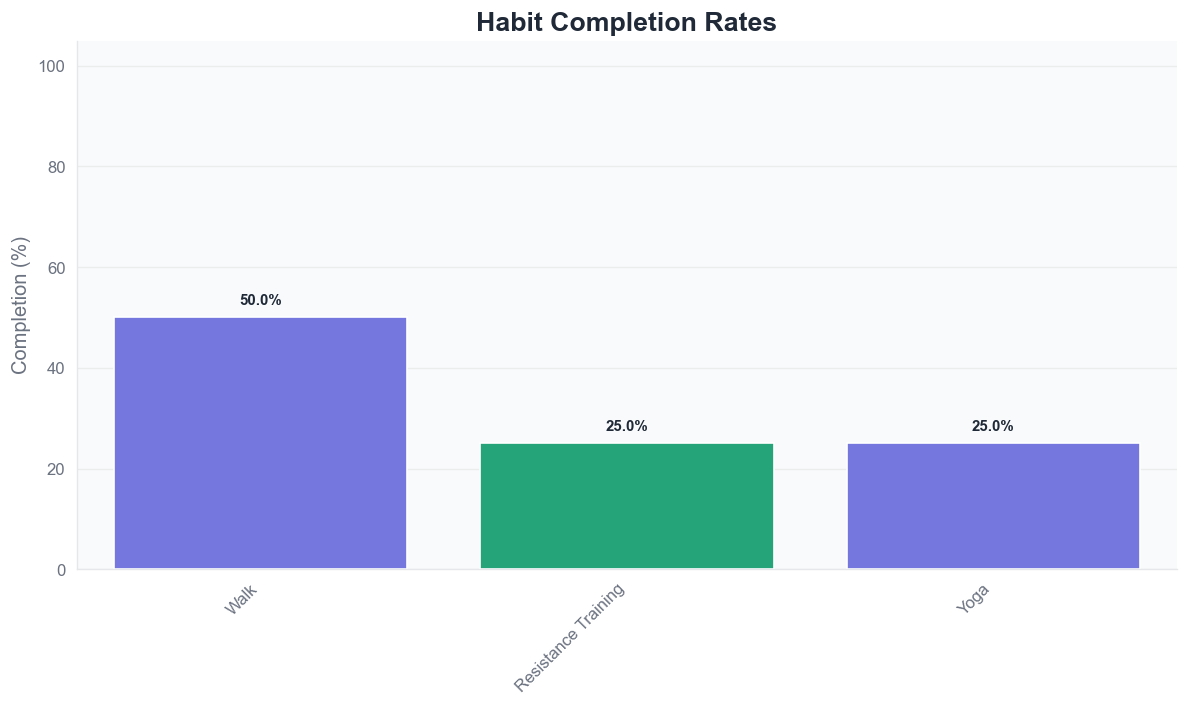
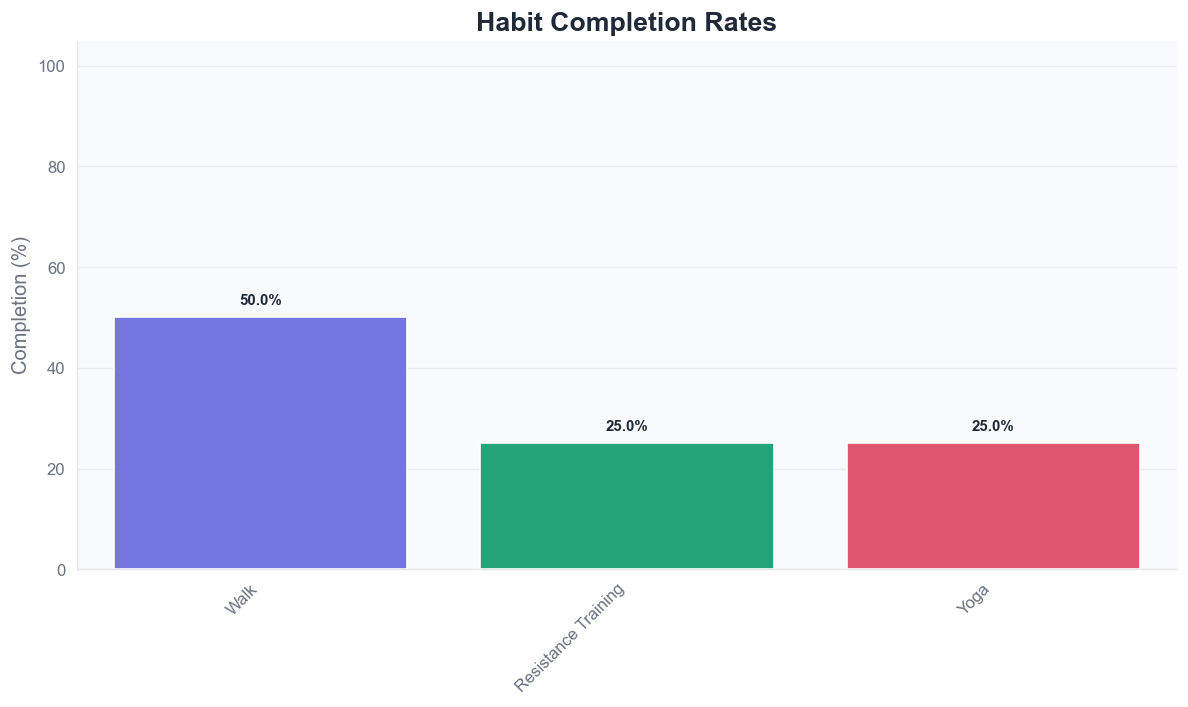
habit trends chart

Changed region(s): [[0.7163, 0.6223, 0.9655, 0.8091]]

diff --git a/templates/index.html b/templates/index.html
@@ -331,7 +331,7 @@
         {% if visual_files %}
             {% for visual in visual_files %}
             <div class="visual-container">
-                <h3 class="visual-title">{{ visual.split('.')[0].replace('_', ' ').title() }}</h3>
+                <h3 class="visual-title">{{ visual.split('_')[0:2]|join(' ')|title }}: All Time</h3>
                 <div class="chart-container">
                     <img src="{{ url_for('serve_visual', filename=visual) }}" alt="Habit Visualization">
                 </div>

diff --git a/src/analyzer.py b/src/analyzer.py
@@ -1,6 +1,8 @@
 import pandas as pd
 import matplotlib.pyplot as plt
 import seaborn as sns
+import numpy as np
+from matplotlib.dates import DateFormatter, WeekdayLocator
 
 def load_data(filepath):
     df = pd.read_csv(filepath)
@@ -32,14 +34,20 @@ def plot_completion_rates(df, save_path=None):
     # Set style and color palette to match our website design
     sns.set_style("whitegrid")
     
-    # Create a custom color palette that matches our UI
+    # Create a custom color palette that matches our UI - same as in plot_habit_trends
     primary_color = "#6366F1"  # Indigo/purple (matches --primary-color)
     secondary_color = "#10B981"  # Teal/green (matches --secondary-color)
+    tertiary_color = "#F43F5E"  # Rose/pink
     
-    # Create a gradient palette from our primary colors
-    # The number of colors should match the number of habits
-    n_habits = len(rates)
-    custom_palette = sns.color_palette([primary_color, secondary_color], n_colors=n_habits)
+    # Create a fixed color map to ensure consistency across charts
+    habit_colors = {
+        'Walk': primary_color,
+        'Resistance Training': secondary_color,
+        'Yoga': tertiary_color
+    }
+    
+    # Map each habit to its assigned color
+    custom_palette = [habit_colors.get(habit, primary_color) for habit in rates.keys()]
     
     plt.figure(figsize=(10, 6), facecolor='white')
     ax = plt.axes()
@@ -91,5 +99,131 @@ def plot_completion_rates(df, save_path=None):
     if save_path:
         plt.savefig(save_path, dpi=120, bbox_inches='tight', transparent=False)
         plt.close()  # Close the figure to avoid displaying it when running as a scheduled task
+    else:
+        plt.show()
+
+def plot_habit_trends(df, save_path=None):
+    """
+    Creates a line chart showing total habit completions over time.
+    
+    Parameters:
+    -----------
+    df : pandas.DataFrame
+        DataFrame containing the habit tracking data with Date column
+    save_path : str, optional
+        Path to save the visualization
+    """
+    # Make a copy to avoid modifying the original dataframe
+    df = df.copy()
+    
+    # Ensure Date is datetime and sort
+    df['Date'] = pd.to_datetime(df['Date'])
+    df = df.sort_values('Date')
+    
+    # Exclude the Notes column
+    habit_columns = [col for col in df.columns if col not in ['Date', 'Notes']]
+    
+    # Convert Yes/No to 1/0 for calculation
+    for habit in habit_columns:
+        df[f'{habit}_numeric'] = df[habit].map(lambda x: 1 if str(x).lower() == 'yes' else 0)
+    
+    # Calculate cumulative sums for each habit
+    for habit in habit_columns:
+        df[f'{habit}_cumsum'] = df[f'{habit}_numeric'].cumsum()
+    
+    # Modern styling that matches our UI
+    sns.set_style("whitegrid")
+    
+    # Create a custom color palette that matches our UI - same as in plot_completion_rates
+    primary_color = "#6366F1"  # Indigo/purple (matches --primary-color)
+    secondary_color = "#10B981"  # Teal/green (matches --secondary-color)
+    tertiary_color = "#F43F5E"  # Rose/pink
+    
+    # Create a fixed color map to ensure consistency across charts
+    habit_colors = {
+        'Walk': primary_color,
+        'Resistance Training': secondary_color,
+        'Yoga': tertiary_color
+    }
+    
+    # Map each habit to its assigned color - ensures consistent colors between charts
+    custom_palette = [habit_colors.get(habit, primary_color) for habit in habit_columns]
+    
+    # Set up the plot
+    plt.figure(figsize=(10, 6), facecolor='white')
+    ax = plt.axes()
+    ax.set_facecolor('#F9FAFB')  # Match background color (--bg-color)
+    
+    # Plot lines for each habit
+    for i, habit in enumerate(habit_columns):
+        color = custom_palette[i % len(custom_palette)]
+        
+        # Plot the cumulative sum line with styling
+        line = plt.plot(
+            df['Date'], 
+            df[f'{habit}_cumsum'],
+            marker='o',
+            markersize=6,
+            linewidth=3,
+            color=color,
+            label=habit
+        )[0]
+        
+        # Add drop shadow to line for depth
+        plt.plot(
+            df['Date'], 
+            df[f'{habit}_cumsum'],
+            linewidth=5,
+            color=color,
+            alpha=0.2  # Transparent for shadow effect
+        )
+        
+        # Add last value annotation
+        last_date = df['Date'].iloc[-1]
+        last_value = df[f'{habit}_cumsum'].iloc[-1]
+        plt.annotate(
+            f'{last_value}',
+            xy=(last_date, last_value),
+            xytext=(5, 0),
+            textcoords='offset points',
+            color='#1F2937',
+            fontweight='bold',
+            fontsize=10
+        )
+    
+    # Style the title and labels
+    plt.title("Cumulative Habit Completions", fontsize=16, fontweight='bold', color='#1F2937')
+    plt.ylabel("Total Completions", fontsize=12, color='#6B7280')
+    plt.xlabel("", fontsize=0)  # Remove x-axis label
+    
+    # Format the date on x-axis
+    date_format = DateFormatter('%b %d')  # Apr 22 format
+    ax.xaxis.set_major_formatter(date_format)
+    plt.xticks(rotation=30, ha='right', color='#6B7280')
+    
+    # Style the axes and grid
+    ax.spines['top'].set_visible(False)
+    ax.spines['right'].set_visible(False)
+    ax.spines['left'].set_color('#E5E7EB')
+    ax.spines['bottom'].set_color('#E5E7EB')
+    plt.grid(axis='y', alpha=0.3)
+    
+    # Add legend with custom styling
+    legend = plt.legend(
+        loc='upper left',
+        frameon=True,
+        fontsize=10
+    )
+    frame = legend.get_frame()
+    frame.set_facecolor('white')
+    frame.set_alpha(0.9)
+    frame.set_edgecolor('#E5E7EB')
+    
+    # Adjust layout
+    plt.tight_layout()
+    
+    if save_path:
+        plt.savefig(save_path, dpi=120, bbox_inches='tight', transparent=False)
+        plt.close()
     else:
         plt.show()

diff --git a/scripts/generate_dashboard.py b/scripts/generate_dashboard.py
@@ -12,7 +12,7 @@ import sys
 
 # Add the project root to the path so we can import from src
 sys.path.append(os.path.abspath(os.path.join(os.path.dirname(__file__), '..')))
-from src.analyzer import summarize_habits, plot_completion_rates
+from src.analyzer import summarize_habits, plot_completion_rates, plot_habit_trends
 
 # Create output directories if they don't exist
 output_dir = os.path.join(os.path.dirname(os.path.dirname(__file__)), 'output')
@@ -56,10 +56,15 @@ if not df.empty:
     for habit, rate in summary.items():
         print(f"{habit}: {rate}%")
     
-    # Generate visualization
-    plot_path = os.path.join(visuals_dir, f'habit_completion_{today}.png')
-    plot_completion_rates(df, save_path=plot_path)
-    print(f"\nVisualization saved to {plot_path}")
+    # Generate bar chart visualization
+    bar_plot_path = os.path.join(visuals_dir, f'habit_completion_{today}.png')
+    plot_completion_rates(df, save_path=bar_plot_path)
+    print(f"\nBar chart visualization saved to {bar_plot_path}")
+    
+    # Generate line chart for habit trends over time
+    line_plot_path = os.path.join(visuals_dir, f'habit_trends_{today}.png')
+    plot_habit_trends(df, save_path=line_plot_path)
+    print(f"Line chart visualization saved to {line_plot_path}")
     
     # Display the latest data
     print("\nLatest records:")
